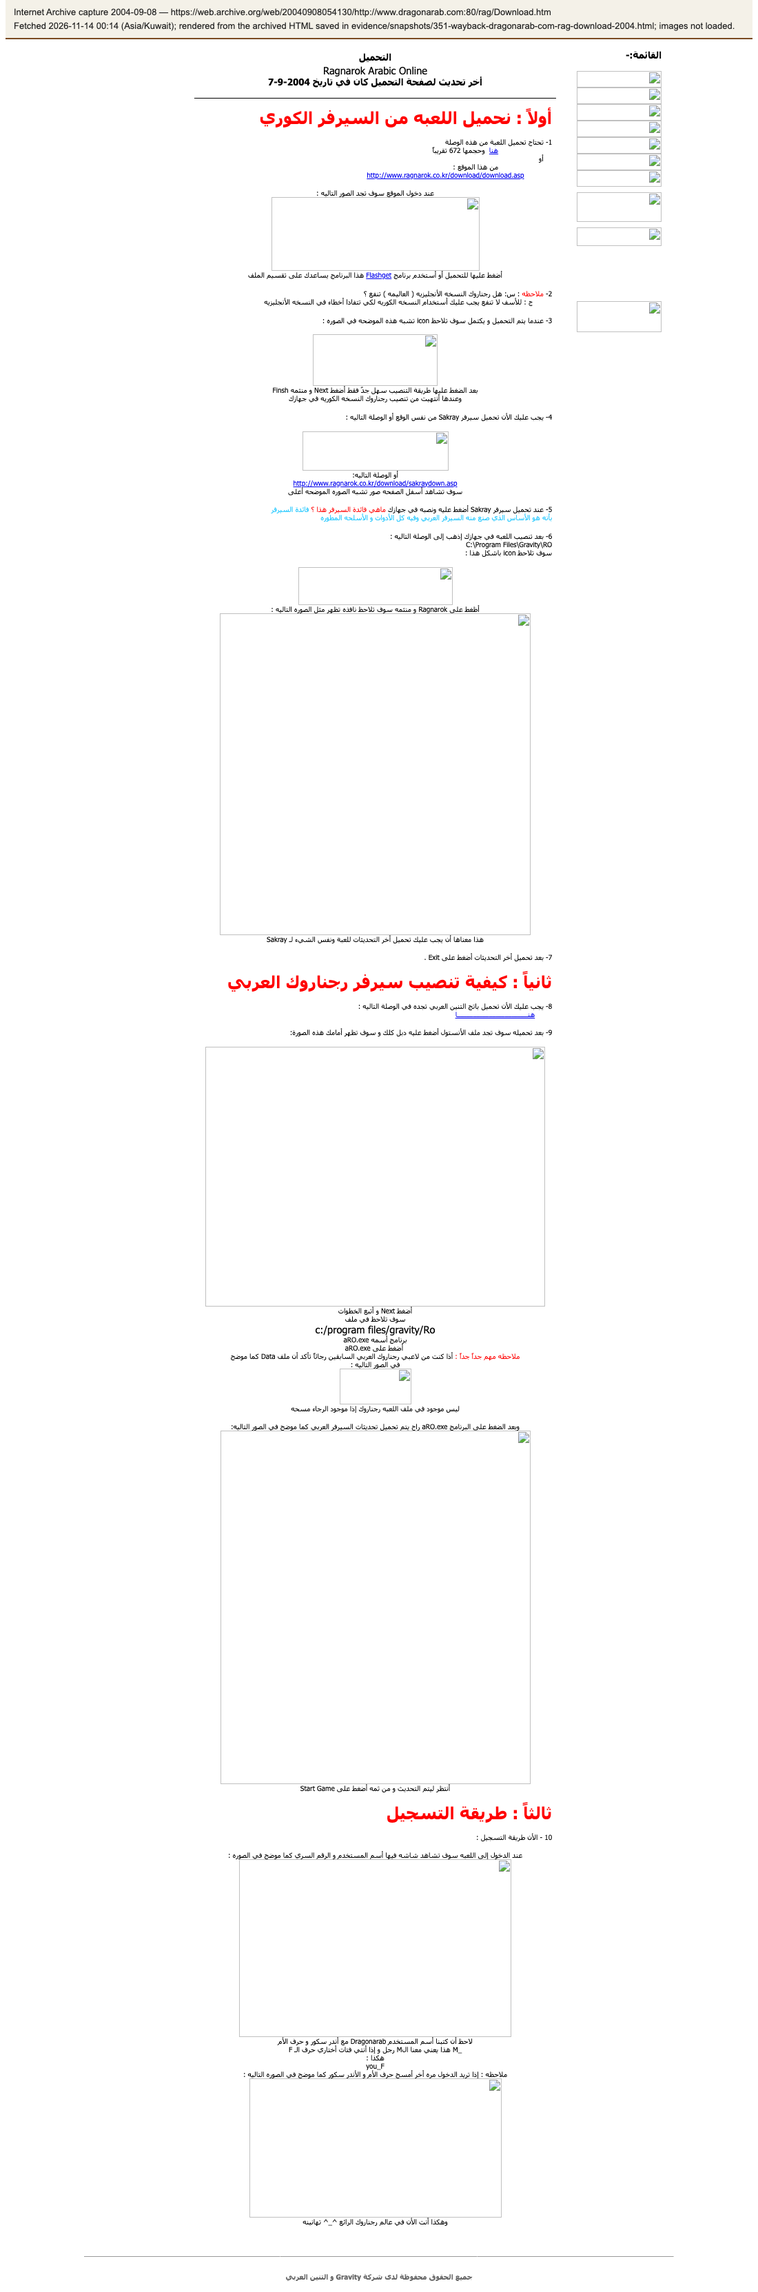
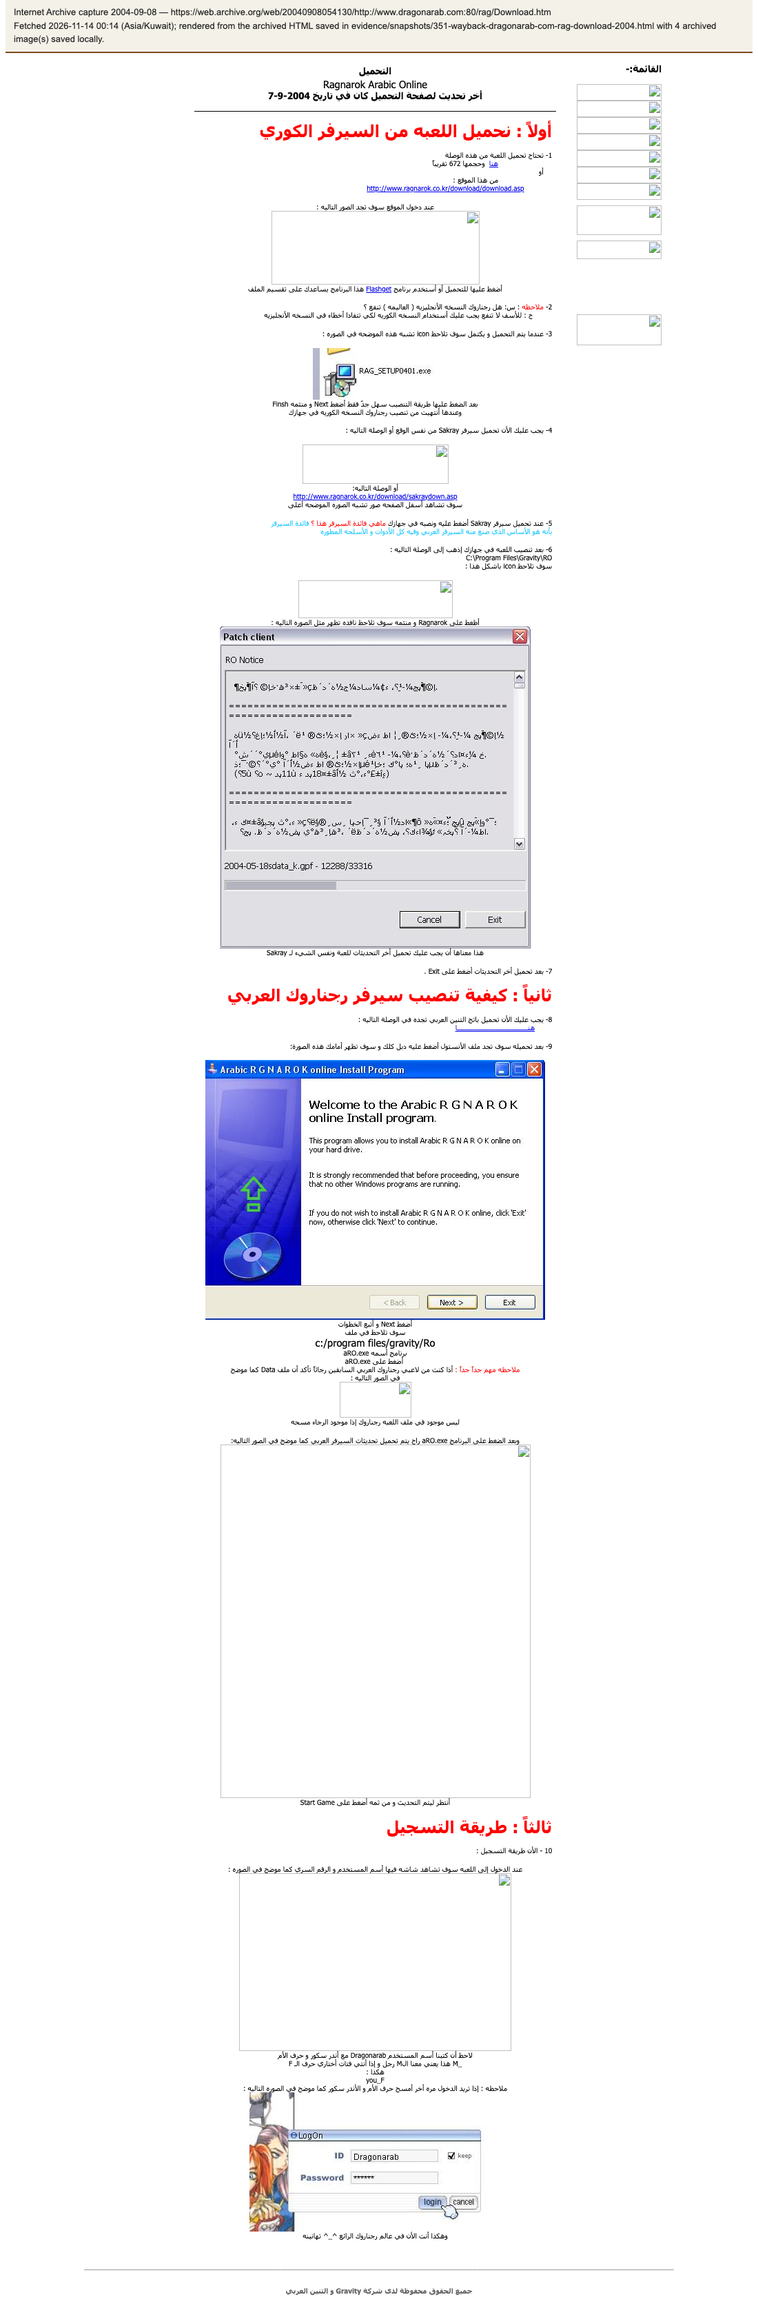
Add seven archived images from the 2004 Arabic Ragnarok pages on dragonarab.com
Saved from the Internet Archive into evidence/media/ and used to re-render
screenshots 351 and 352; the launcher window images are still missing
(the archive refused the requests).

diff --git a/evidence/screenshots/INDEX.md b/evidence/screenshots/INDEX.md
@@ -8,7 +8,7 @@
 - منشورات X: صُوّرت عبر عارض التضمين الرسمي (platform.twitter.com) لأن x.com يحجب الزائر غير المسجل، وحُفظ نص المنشور وإحصاءاته كاملة من واجهة fxtwitter في `evidence/snapshots/*.json` و`.txt`، وصوره في `evidence/media/x/`.
 - الوقت بتوقيت الكويت (Asia/Kuwait). عمود SHA-256 يعرض أول 16 خانة؛ القيمة الكاملة في `evidence/screenshots/index.json`.
 - **مصادر بديلة للروابط المحجوبة (تحديث):** للروابط التي لم تُلتقط من الموقع نفسه ولا توجد لها نسخة في Wayback، حُفظت نسخة من مرآة مستقلة (romhackplaza.org) أو نص الصفحة من فهرس محرك البحث، مع شارة واضحة على اللقطة أنها ليست لقطة من الموقع الأصلي. حساب @extrasociety المحذوف: حُفظت 7 منشورات من Wayback (2019–2021) تظهر فيها بطاقة الحساب.
-- **إضافة سجل `Dragonarab` (311–357، 13 نوفمبر 2026):** لقطات ونصوص لمصادر سيرة **ص** المبكرة باسمه الأول `Dragonarab` («التنين العربي») ولبرنامج «المعرب» (`Alm3rb`)، المراجع [131]–[139]. البنود 311–347 جُمعت في طلب السحب رقم 1 ثم أُعيد ترقيم مراجعها؛ لم يُطلب لها حفظ جديد في Wayback، ويُذكر في عمود Wayback ما وُجد من نسخ سابقة، وحُجبت فيها عناوين البريد الشخصية (`[محجوب]`)، وحُذف منها البند 314 لأنه يحيل إلى صفحة تُظهر بياناتها الوصفية اسم صاحبها. البنود 348–357 نسخ أرشيف الإنترنت لموقع `dragonarab.com` (2003–2005): حُفظ نص HTML الأصلي من الأرشيف (بعد تحويل ترميزه من `Windows-1256` إلى `UTF-8`)، وعُرضت اللقطة منه محلياً مع شريط يبيّن ذلك، لأن أرشيف الإنترنت قيّد الطلبات يوم الالتقاط فتعذّر تصوير الصفحة منه مباشرة.
+- **إضافة سجل `Dragonarab` (311–357، 13 نوفمبر 2026):** لقطات ونصوص لمصادر سيرة **ص** المبكرة باسمه الأول `Dragonarab` («التنين العربي») ولبرنامج «المعرب» (`Alm3rb`)، المراجع [131]–[139]. البنود 311–347 جُمعت في طلب السحب رقم 1 ثم أُعيد ترقيم مراجعها؛ لم يُطلب لها حفظ جديد في Wayback، ويُذكر في عمود Wayback ما وُجد من نسخ سابقة، وحُجبت فيها عناوين البريد الشخصية (`[محجوب]`)، وحُذف منها البند 314 لأنه يحيل إلى صفحة تُظهر بياناتها الوصفية اسم صاحبها. البنود 348–357 نسخ أرشيف الإنترنت لموقع `dragonarab.com` (2003–2005): حُفظ نص HTML الأصلي من الأرشيف (بعد تحويل ترميزه من `Windows-1256` إلى `UTF-8`)، وعُرضت اللقطة منه محلياً مع شريط يبيّن ذلك، لأن أرشيف الإنترنت قيّد الطلبات يوم الالتقاط فتعذّر تصوير الصفحة منه مباشرة. ثم جُلبت من الأرشيف سبع من صور الصفحتين 351 و352 وحُفظت في `evidence/media/` (`dragonarab-2004-*.jpg`) وأُعيد عرض اللقطتين بها؛ وبقية الصور لم تُجلب.
 - ملاحظة تقنية: بيئة الالتقاط تحجب HTTP غير المشفر، فجُرّبت روابط `http://` عبر HTTPS ثم عبر الأرشيف.
 
 | # | الرابط الأصلي | المرجع | وقت الالتقاط | الحالة | اللقطة | النص/الملفات | Wayback | SHA-256 | ملاحظات |
@@ -362,8 +362,8 @@
 | 348 | <https://web.archive.org/web/20031126152647/http://www.dragonarab.com:80/> | [136] | 2026-11-13 23:58 | نسخة أرشيف (الرابط الأصلي أرشيفي) | [لقطة](../../evidence/screenshots/348-wayback-dragonarab-com-home-2003.png) | [نص](../../evidence/snapshots/348-wayback-dragonarab-com-home-2003.txt) [HTML](../../evidence/snapshots/348-wayback-dragonarab-com-home-2003.html) | الرابط نفسه أرشيفي | `e4229e4692fbb338…` | rendered locally from the archived HTML (Wayback id_ capture), images not loaded; Wayback rate-limited live screenshots on the capture day |
 | 349 | <https://web.archive.org/web/20040908060900/http://www.dragonarab.com:80/rag/index.htm> | [136] | 2026-11-14 00:03 | نسخة أرشيف (الرابط الأصلي أرشيفي) | [لقطة](../../evidence/screenshots/349-wayback-dragonarab-com-rag-index-2004.png) | [نص](../../evidence/snapshots/349-wayback-dragonarab-com-rag-index-2004.txt) [HTML](../../evidence/snapshots/349-wayback-dragonarab-com-rag-index-2004.html) | الرابط نفسه أرشيفي | `ae293537de84d135…` | rendered locally from the archived HTML (Wayback id_ capture), images not loaded; Wayback rate-limited live screenshots on the capture day |
 | 350 | <https://web.archive.org/web/20040908061025/http://www.dragonarab.com:80/rag/online.htm> | [136] | 2026-11-13 23:42 | نسخة أرشيف (الرابط الأصلي أرشيفي) | [لقطة](../../evidence/screenshots/350-wayback-dragonarab-com-rag-online-2004.png) | [نص](../../evidence/snapshots/350-wayback-dragonarab-com-rag-online-2004.txt) [HTML](../../evidence/snapshots/350-wayback-dragonarab-com-rag-online-2004.html) | الرابط نفسه أرشيفي | `6fca5c67f71a40ef…` | rendered locally from the archived HTML (Wayback id_ capture), images not loaded; Wayback rate-limited live screenshots on the capture day |
-| 351 | <https://web.archive.org/web/20040908054130/http://www.dragonarab.com:80/rag/Download.htm> | [136] | 2026-11-14 00:14 | نسخة أرشيف (الرابط الأصلي أرشيفي) | [لقطة](../../evidence/screenshots/351-wayback-dragonarab-com-rag-download-2004.png) | [نص](../../evidence/snapshots/351-wayback-dragonarab-com-rag-download-2004.txt) [HTML](../../evidence/snapshots/351-wayback-dragonarab-com-rag-download-2004.html) | الرابط نفسه أرشيفي | `fa9a701295b007eb…` | rendered locally from the archived HTML (Wayback id_ capture), images not loaded; Wayback rate-limited live screenshots on the capture day |
-| 352 | <https://web.archive.org/web/20040908221742/http://www.dragonarab.com:80/aropatch/> | [136] | 2026-11-14 00:49 | نسخة أرشيف (الرابط الأصلي أرشيفي) | [لقطة](../../evidence/screenshots/352-wayback-dragonarab-com-aropatch-2004.png) | [نص](../../evidence/snapshots/352-wayback-dragonarab-com-aropatch-2004.txt) [HTML](../../evidence/snapshots/352-wayback-dragonarab-com-aropatch-2004.html) | الرابط نفسه أرشيفي | `97eeb6416e18ed7a…` | rendered locally from the archived HTML (Wayback id_ capture), images not loaded; Wayback rate-limited live screenshots on the capture day |
+| 351 | <https://web.archive.org/web/20040908054130/http://www.dragonarab.com:80/rag/Download.htm> | [136] | 2026-11-14 00:14 | نسخة أرشيف (الرابط الأصلي أرشيفي) | [لقطة](../../evidence/screenshots/351-wayback-dragonarab-com-rag-download-2004.png) | [نص](../../evidence/snapshots/351-wayback-dragonarab-com-rag-download-2004.txt) [HTML](../../evidence/snapshots/351-wayback-dragonarab-com-rag-download-2004.html) | الرابط نفسه أرشيفي | `90b38c708c382ea3…` | rendered locally from the archived HTML (Wayback id_ capture) with 4 archived image(s); Wayback rate-limited live screenshots on the capture day |
+| 352 | <https://web.archive.org/web/20040908221742/http://www.dragonarab.com:80/aropatch/> | [136] | 2026-11-14 00:49 | نسخة أرشيف (الرابط الأصلي أرشيفي) | [لقطة](../../evidence/screenshots/352-wayback-dragonarab-com-aropatch-2004.png) | [نص](../../evidence/snapshots/352-wayback-dragonarab-com-aropatch-2004.txt) [HTML](../../evidence/snapshots/352-wayback-dragonarab-com-aropatch-2004.html) | الرابط نفسه أرشيفي | `aa3d741b8bcc1faf…` | rendered locally from the archived HTML (Wayback id_ capture) with 3 archived image(s); Wayback rate-limited live screenshots on the capture day |
 | 353 | <https://web.archive.org/web/20041026012707/http://www.dragonarab.com:80/rag/about.htm> | [136] | 2026-11-14 00:12 | نسخة أرشيف (الرابط الأصلي أرشيفي) | [لقطة](../../evidence/screenshots/353-wayback-dragonarab-com-rag-about-2004.png) | [نص](../../evidence/snapshots/353-wayback-dragonarab-com-rag-about-2004.txt) [HTML](../../evidence/snapshots/353-wayback-dragonarab-com-rag-about-2004.html) | الرابط نفسه أرشيفي | `7254750742ce0e5b…` | rendered locally from the archived HTML (Wayback id_ capture), images not loaded; Wayback rate-limited live screenshots on the capture day |
 | 354 | <https://web.archive.org/web/20041026120236/http://www.dragonarab.com:80/rag/about_rag.htm> | [136] | 2026-11-14 00:12 | نسخة أرشيف (الرابط الأصلي أرشيفي) | [لقطة](../../evidence/screenshots/354-wayback-dragonarab-com-rag-about-rag-2004.png) | [نص](../../evidence/snapshots/354-wayback-dragonarab-com-rag-about-rag-2004.txt) [HTML](../../evidence/snapshots/354-wayback-dragonarab-com-rag-about-rag-2004.html) | الرابط نفسه أرشيفي | `70a227ede58cd431…` | rendered locally from the archived HTML (Wayback id_ capture), images not loaded; Wayback rate-limited live screenshots on the capture day |
 | 355 | <https://web.archive.org/web/20050223043757/http://www.dragonarab.com:80/rag/news/news.htm> | [136] | 2026-11-14 01:09 | نسخة أرشيف (الرابط الأصلي أرشيفي) | [لقطة](../../evidence/screenshots/355-wayback-dragonarab-com-rag-news-2005.png) | [نص](../../evidence/snapshots/355-wayback-dragonarab-com-rag-news-2005.txt) [HTML](../../evidence/snapshots/355-wayback-dragonarab-com-rag-news-2005.html) | الرابط نفسه أرشيفي | `8016ad25b7eb63df…` | rendered locally from the archived HTML (Wayback id_ capture), images not loaded; Wayback rate-limited live screenshots on the capture day |

diff --git a/evidence/pages/2003-2024-dragonarab-record.md b/evidence/pages/2003-2024-dragonarab-record.md
@@ -37,6 +37,12 @@
   > ملاحظه مهم جداً جداً جداً: عندما تضغط على اللعبه aRO.exe سوف تظهر أمامك نافذه مثل الصورة التاليه : هنا يعني أن لا توجد لديك مشكلة عدم القراء العربيه. إذا واجهتك هذه المشكله كما في الصوره التاليه : روح Start > Control Panel وسوف تجد برنامج يدعا Regional and Language Options … أختر لغتك العربيه … ثم أضغط OK سوف يتم أعادة الجهاز و كذالك تستطيع قراءة الأخبار بالغه العربيه مبروك ^_^ — Dragonarab.com
 
   http://web.archive.org/web/20040908221742/http://www.dragonarab.com:80/aropatch/
+- **صور الصفحتين المحفوظة** (سبع صور من أرشيف الإنترنت، لقطات 8 و9 سبتمبر 2004، محفوظة كما هي في `evidence/media/`، وتظهر في لقطتَي البندين 351 و352):
+  - `media/dragonarab-2004-arabic-ragnarok-installer.jpg` — نافذة برنامج التثبيت وعنوانها «Arabic R G N A R O K online Install Program». http://web.archive.org/web/20040908221746/http://www.dragonarab.com:80/rag/images/aro.JPG
+  - `media/dragonarab-2004-login-id-dragonarab.jpg` — نافذة الدخول إلى اللعبة وفي خانة المعرّف `Dragonarab`. http://web.archive.org/web/20040908224513/http://www.dragonarab.com:80/rag/images/reg001.JPG
+  - `media/dragonarab-2004-korean-setup-icon.jpg` و`media/dragonarab-2004-korean-patch-client.jpg` — أيقونة ملف تثبيت النسخة الكورية (`RAG_SETUP0401.exe`) ونافذة تحديثها (`Patch client`). http://web.archive.org/web/20040908224450/http://www.dragonarab.com:80/rag/images/set000.JPG و http://web.archive.org/web/20040908224459/http://www.dragonarab.com:80/rag/images/set002.JPG
+  - `media/dragonarab-2004-aropatch-step1-regional-options.jpg` و`…-step2-languages.jpg` و`…-step3-advanced.jpg` — خطوات ضبط `Regional and Language Options` في `Windows XP` على «Arabic (Kuwait)»، والتاريخ الظاهر في الأولى «٠٦ سبتمبر، ٢٠٠٤». http://web.archive.org/web/20040909130045/http://www.dragonarab.com:80/aropatch/loading3.JPG و http://web.archive.org/web/20040909125930/http://www.dragonarab.com:80/aropatch/loading4.JPG و http://web.archive.org/web/20040909130007/http://www.dragonarab.com:80/aropatch/loading5.JPG
+  - **لم تُحفظ بعد:** صورتا نافذة المشغّل `aRO.exe` (`aropatch/loading.JPG` و`loading2.JPG`) وصورتا `rag/images/reg000.JPG` و`data.JPG`؛ الأرشيف يفهرسها، لكنه رفض الطلبات (HTTP 429) عند الجلب.
 - **صفحتا «عن اللعبة»** (`/rag/about.htm` و`/rag/about_rag.htm`، 26 أكتوبر 2004؛ بندا 353 و354): فهرس شرح عربي («ماهو رجناروك ؟ كيفية الإنظمام ؟ كيفية التحميل ؟ … الإنتقال و الدردشة … تكوين أحزاب») وتعريف باللعبة. http://web.archive.org/web/20041026120236/http://www.dragonarab.com:80/rag/about_rag.htm
 - **صفحتا الأخبار** (`/rag/news/news.htm` و`news_server.htm`، 23 فبراير 2005؛ بندا 355 و356): «أخبار السيرفر 8-2-2005 لا أخبار حالياً». http://web.archive.org/web/20050223095451/http://www.dragonarab.com:80/rag/news/news_server.htm
 - **ما يُفهم من الأرشيف:** خادم خاص للعبة باسم «سيرفر التنين العربي» كان قائماً في أغسطس–سبتمبر 2004 وله باتج عربي يثبّت مشغّلاً خاصاً (`aRO.exe`) فوق النسخة الكورية، مع علاج لعرض العربية بإعدادات `Windows`؛ وبقي القسم منشوراً حتى فبراير 2005 على الأقل.

diff --git a/evidence/INDEX.md b/evidence/INDEX.md
@@ -30,7 +30,7 @@
 
 ---
 
-## ثالثاً: أرشيف الصور ولقطات الشاشة الأولية (`evidence/media/` — 19 وثيقة مصوَّرة)
+## ثالثاً: أرشيف الصور ولقطات الشاشة الأولية (`evidence/media/` — 26 وثيقة مصوَّرة)
 
 | الملف | الوصف والمصدر |
 | --- | --- |
@@ -53,6 +53,13 @@
 | `media/sbalhatlani-nov10-gta6ar-announcement.jpg` | الصورة المرفقة بإعلان **ص** (`@sbalhatlani`) عن إطلاق المستودع المفتوح لتعريب *GTA VI* بالذكاء الاصطناعي (10 نوفمبر 2026). |
 | `media/hesham-sept4-ai-vs-human-comparison.jpg` | الصورة المرفقة بسلسلة `@Arabic_Hesham` في 4 سبتمبر 2026 حول مقارنة الترجمة الآلية بالبشرية. |
 | `media/hesham-may31-greek-modder-credit.jpg` | لقطة شاشة نشرها `@Arabic_Hesham` في 31 مايو 2026 لرسالة المترجم اليوناني `Yiannis` الذي استأذنه في استخدام أدواته مفتوحة المصدر. |
+| `media/dragonarab-2004-arabic-ragnarok-installer.jpg` | نافذة برنامج تثبيت «Arabic R G N A R O K online» من صفحة التحميل؛ من أرشيف الإنترنت لموقع `dragonarab.com` (لقطة سبتمبر 2004؛ التفصيل والروابط في `pages/2003-2024-dragonarab-record.md`). |
+| `media/dragonarab-2004-login-id-dragonarab.jpg` | نافذة الدخول إلى *Ragnarok Online* وفي خانة المعرّف `Dragonarab`، من صفحة التحميل؛ من أرشيف الإنترنت لموقع `dragonarab.com` (لقطة سبتمبر 2004؛ التفصيل والروابط في `pages/2003-2024-dragonarab-record.md`). |
+| `media/dragonarab-2004-korean-setup-icon.jpg` | أيقونة ملف تثبيت النسخة الكورية (`RAG_SETUP0401.exe`) من صفحة التحميل؛ من أرشيف الإنترنت لموقع `dragonarab.com` (لقطة سبتمبر 2004؛ التفصيل والروابط في `pages/2003-2024-dragonarab-record.md`). |
+| `media/dragonarab-2004-korean-patch-client.jpg` | نافذة تحديث النسخة الكورية (`Patch client`) من صفحة التحميل؛ من أرشيف الإنترنت لموقع `dragonarab.com` (لقطة سبتمبر 2004؛ التفصيل والروابط في `pages/2003-2024-dragonarab-record.md`). |
+| `media/dragonarab-2004-aropatch-step1-regional-options.jpg` | الخطوة الأولى في شرح صفحة «باتج رجناروك العربي الكامل»: ضبط `Regional Options` على «Arabic (Kuwait)»، والتاريخ الظاهر «٠٦ سبتمبر، ٢٠٠٤»؛ من أرشيف الإنترنت لموقع `dragonarab.com` (لقطة سبتمبر 2004؛ التفصيل والروابط في `pages/2003-2024-dragonarab-record.md`). |
+| `media/dragonarab-2004-aropatch-step2-languages.jpg` | الخطوة الثانية في الشرح نفسه: تبويب `Languages` وتثبيت ملفات اللغات؛ من أرشيف الإنترنت لموقع `dragonarab.com` (لقطة سبتمبر 2004؛ التفصيل والروابط في `pages/2003-2024-dragonarab-record.md`). |
+| `media/dragonarab-2004-aropatch-step3-advanced.jpg` | الخطوة الثالثة في الشرح نفسه: تبويب `Advanced` ولغة البرامج غير اليونيكود «Arabic (Kuwait)»؛ من أرشيف الإنترنت لموقع `dragonarab.com` (لقطة سبتمبر 2004؛ التفصيل والروابط في `pages/2003-2024-dragonarab-record.md`). |
 
 ---
 
